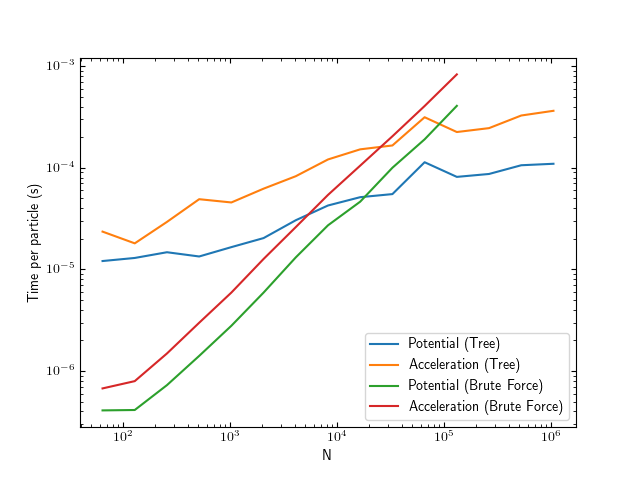
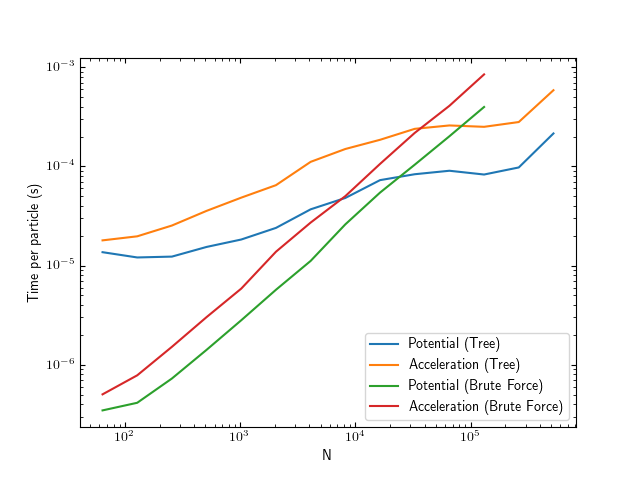
softening appears to work now

diff --git a/pykdgrav/kernel.py b/pykdgrav/kernel.py
@@ -1,25 +1,27 @@
 from numba import njit, float64, float32
 
-@njit([float64(float64,float64),float32(float32,float32)])
+@njit#([float64(float64,float64),float32(float32,float32)])
 def ForceKernel(r, h):
+    if r > h: return 1./(r*r*r)
     hinv = 1./h
     q = r*hinv
     if q <= 0.5:
         return (10.666666666666666666 + q*q*(-38.4 + 32.*q))*hinv*hinv*hinv
-    elif 0.5 < q <= 1:
-        return (21.333333333333 - 48.0 * q + 38.4 * q * q - 10.666666666667 * q * q * q - 0.066666666667 / (q * q * q))*hinv*hinv*hinv
     else:
-        return 1./(r*r*r)
+        return (21.333333333333 - 48.0 * q + 38.4 * q * q - 10.666666666667 * q * q * q - 0.066666666667 / (q * q * q))*hinv*hinv*hinv
 
-@njit([float64(float64,float64),float32(float32,float32)])
+@njit#([float64(float64,float64)])
 def PotentialKernel(r, h):
+    if h==0.:
+ #       if r==0.:
+ #           return 0.
+ #       else:
+        return -1./r            
     hinv = 1./h
     q = r*hinv
-
-    if q<= 0.5:
-        return (-2.8 + q*q*(5.33333333333333333 + q*q*(6.4*q - 9.6))) * hinv
-    elif 0.5 < q <= 1:
+    if q <= 0.5:
+         return (-2.8 + q*q*(5.33333333333333333 + q*q*(6.4*q - 9.6))) * hinv
+    elif q <= 1:
         return (-3.2 + 0.066666666666666666666 / q + q*q*(10.666666666666666666666 +  q*(-16.0 + q*(9.6 - 2.1333333333333333333333 * q)))) * hinv
     else:
         return -1./r
-    

diff --git a/pykdgrav/treewalk.py b/pykdgrav/treewalk.py
@@ -5,15 +5,11 @@ from .kernel import *
 @njit
 def PotentialWalk(x, phi, node, theta=0.7):
     r = sqrt((x[0]-node.COM[0])**2 + (x[1]-node.COM[1])**2 + (x[2]-node.COM[2])**2)
-    
     if node.IsLeaf:
-        if r == 0 and h: phi -= node.mass / node.h
-        elif r < node.h:
+        if r>0:
             phi += node.mass * PotentialKernel(r,node.h)
-        else:
-            phi -= node.mass/r
-    elif r > max(node.size/theta, node.h):
-        phi -= node.mass / r
+    elif r > max(node.size/theta, node.h+node.size):
+        phi -= node.mass/r
     else:
         if node.HasLeft:
             phi = PotentialWalk(x, phi, node.left, theta)
@@ -35,7 +31,7 @@ def ForceWalk(x, g, node, theta=0.7):
                 mr3inv = node.mass * ForceKernel(r, node.h)
             else:
                 mr3inv = node.mass/(r*r*r)
-        elif r > max(node.size/theta + node.delta, node.h):
+        elif r > max(node.size/theta + node.delta, node.h+node.size):
             add_accel = True        
             mr3inv = node.mass/(r*r*r)
 

diff --git a/test.py b/test.py
@@ -3,10 +3,11 @@ from pykdgrav.bruteforce import *
 import numpy as np
 from time import time
 from matplotlib import pyplot as plt
+from meshoid import meshoid
 
 parallel = False
 theta = 0.7
-N = 2**np.arange(6,21)
+N = 2**np.arange(6,20)
 t1 = []
 t2 = []
 t3 = []
@@ -23,15 +24,18 @@ for n in N:
     print(n)
     x = np.random.rand(n)
     r = np.sqrt( x**(2./3) * (1+x**(2./3) + x**(4./3))/(1-x**2))
+    phi_exact = -(1+r**2)**-0.5
     x = np.random.normal(size=(n,3))
     x = (x.T * r/np.sum(x**2,axis=1)**0.5).T
     m = np.repeat(1./n,n)
+    #h = meshoid(x).h  #m**(1./3)
+    h = np.zeros_like(m)
     t = time()
-    phitree = Potential(x, m, parallel=parallel,theta=theta)
+    phitree = Potential(x, m, h, parallel=parallel,theta=theta)
     t = time() -t 
     t1.append(t)
     t = time()
-    atree = Accel(x, m, parallel=parallel,theta=theta)
+    atree = Accel(x, m, h, parallel=parallel,theta=theta)
     t = time() - t
     t2.append(t)
     if n < 64**3:
